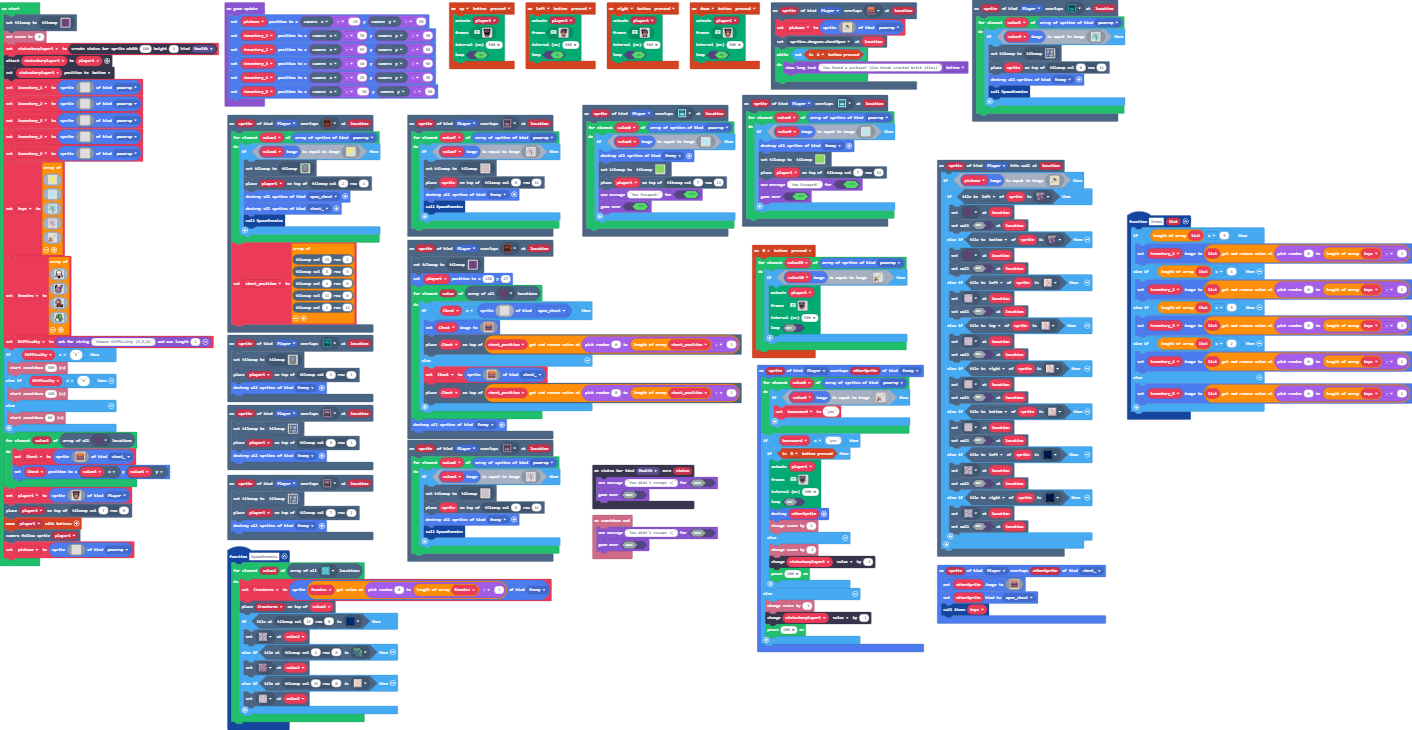
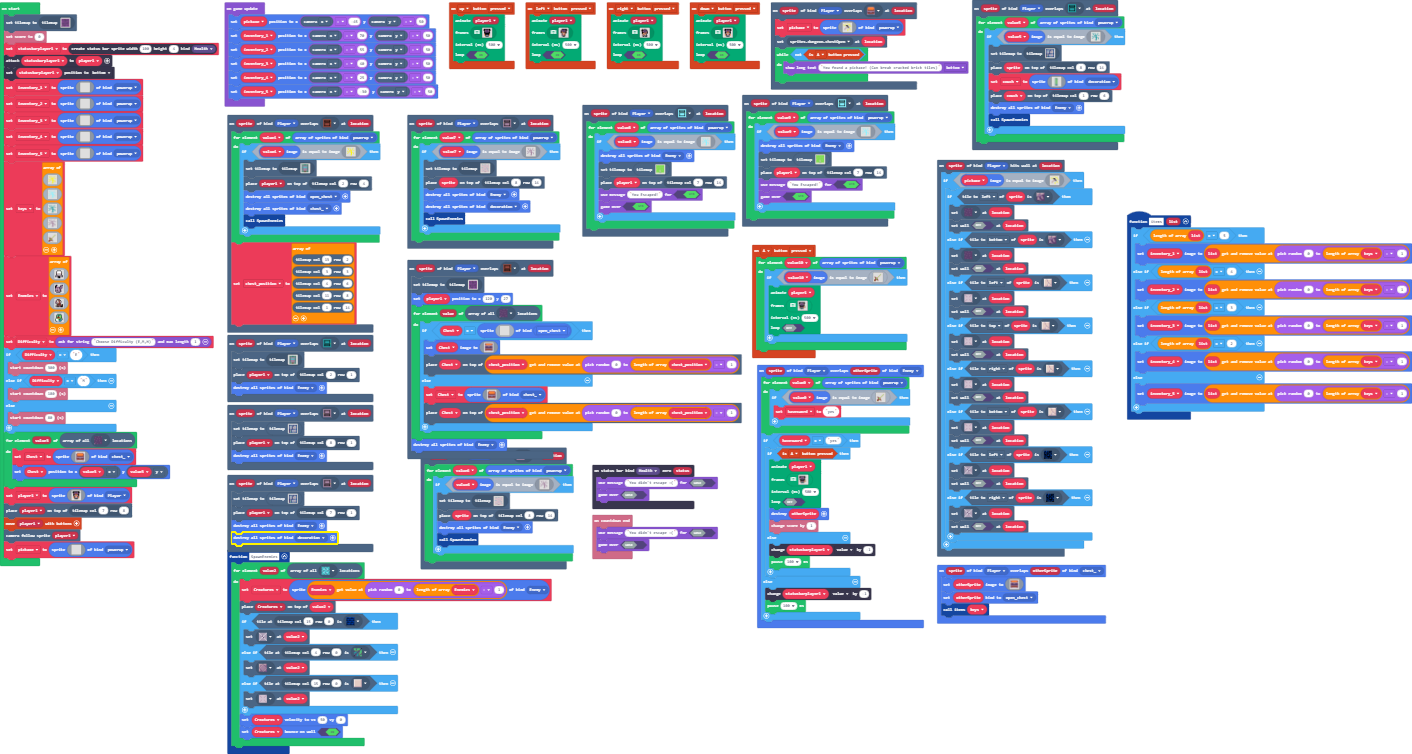
Update main.blocks, main.ts, tilemap.g.jres, tilemap.g.ts

diff --git a/main.ts b/main.ts
@@ -2,6 +2,7 @@ namespace SpriteKind {
     export const powerup = SpriteKind.create()
     export const chest_ = SpriteKind.create()
     export const open_chest = SpriteKind.create()
+    export const decoration = SpriteKind.create()
 }
 scene.onOverlapTile(SpriteKind.Player, assets.tile`myTile0`, function (sprite, location) {
     tiles.setCurrentTilemap(tilemap`level1`)
@@ -173,7 +174,62 @@ scene.onHitWall(SpriteKind.Player, function (sprite, location) {
         }
     }
 })
-controller.B.onEvent(ControllerButtonEvent.Pressed, function () {
+scene.onOverlapTile(SpriteKind.Player, assets.tile`myTile`, function (sprite, location) {
+    for (let value4 of sprites.allOfKind(SpriteKind.powerup)) {
+        if (value4.image.equals(img`
+            . . . . . 5 . . . . . . . . . . 
+            . 5 5 . . . 5 . . . . 5 5 . . . 
+            . . 5 5 . . 5 5 . . 5 5 . . . . 
+            . . . 5 . . . . . . . . . . . . 
+            . . . . . 5 5 5 5 5 . . . . . . 
+            . . . . . 5 . 5 . 5 . 5 5 5 5 . 
+            5 5 5 . . 5 5 . 5 5 . . . . . . 
+            . . . . . 5 . 5 . 5 . . . . . . 
+            . . . . . 5 5 5 5 5 . 5 . . . . 
+            . . 5 5 . . . . 5 5 . 5 5 . . . 
+            . 5 5 . . . . . 5 5 . . 5 5 . . 
+            . 5 . . . . . . 5 5 . . . 5 . . 
+            . . . . . . . 5 5 5 . . . 5 . . 
+            . . . . . . . . 5 5 . . . . . . 
+            . . . . . . . 5 5 5 . . . . . . 
+            . . . . . . . . . . . . . . . . 
+            `)) {
+            tiles.setCurrentTilemap(tilemap`level5`)
+            tiles.placeOnTile(player1, tiles.getTileLocation(2, 4))
+            sprites.destroyAllSpritesOfKind(SpriteKind.open_chest)
+            sprites.destroyAllSpritesOfKind(SpriteKind.chest_)
+            SpawnEnemies()
+        }
+    }
+    chest_position = [
+    tiles.getTileLocation(13, 2),
+    tiles.getTileLocation(3, 3),
+    tiles.getTileLocation(4, 6),
+    tiles.getTileLocation(11, 8),
+    tiles.getTileLocation(1, 14)
+    ]
+})
+function SpawnEnemies () {
+    for (let value2 of tiles.getTilesByType(sprites.dungeon.collectibleInsignia)) {
+        Creatures = sprites.create(Enemies[randint(0, Enemies.length - 1)], SpriteKind.Enemy)
+        tiles.placeOnTile(Creatures, value2)
+        if (tiles.tileAtLocationEquals(tiles.getTileLocation(15, 0), assets.tile`myTile4`)) {
+            tiles.setTileAt(value2, assets.tile`myTile3`)
+        } else if (tiles.tileAtLocationEquals(tiles.getTileLocation(4, 0), sprites.dungeon.greenOuterNorthEast)) {
+            tiles.setTileAt(value2, sprites.dungeon.floorDarkDiamond)
+        } else if (tiles.tileAtLocationEquals(tiles.getTileLocation(15, 0), sprites.dungeon.floorLight2)) {
+            tiles.setTileAt(value2, assets.tile`myTile1`)
+        }
+        Creatures.setVelocity(50, 0)
+        Creatures.setBounceOnWall(true)
+    }
+}
+scene.onOverlapTile(SpriteKind.Player, assets.tile`myTile15`, function (sprite, location) {
+    tiles.setCurrentTilemap(tilemap`level3`)
+    tiles.placeOnTile(player1, tiles.getTileLocation(8, 1))
+    sprites.destroyAllSpritesOfKind(SpriteKind.Enemy)
+})
+controller.A.onEvent(ControllerButtonEvent.Pressed, function () {
     for (let value10 of sprites.allOfKind(SpriteKind.powerup)) {
         if (value10.image.equals(img`
             . . . . . . . . . . . . . . . . 
@@ -269,59 +325,6 @@ controller.B.onEvent(ControllerButtonEvent.Pressed, function () {
             )
         }
     }
-})
-scene.onOverlapTile(SpriteKind.Player, assets.tile`myTile`, function (sprite, location) {
-    for (let value4 of sprites.allOfKind(SpriteKind.powerup)) {
-        if (value4.image.equals(img`
-            . . . . . 5 . . . . . . . . . . 
-            . 5 5 . . . 5 . . . . 5 5 . . . 
-            . . 5 5 . . 5 5 . . 5 5 . . . . 
-            . . . 5 . . . . . . . . . . . . 
-            . . . . . 5 5 5 5 5 . . . . . . 
-            . . . . . 5 . 5 . 5 . 5 5 5 5 . 
-            5 5 5 . . 5 5 . 5 5 . . . . . . 
-            . . . . . 5 . 5 . 5 . . . . . . 
-            . . . . . 5 5 5 5 5 . 5 . . . . 
-            . . 5 5 . . . . 5 5 . 5 5 . . . 
-            . 5 5 . . . . . 5 5 . . 5 5 . . 
-            . 5 . . . . . . 5 5 . . . 5 . . 
-            . . . . . . . 5 5 5 . . . 5 . . 
-            . . . . . . . . 5 5 . . . . . . 
-            . . . . . . . 5 5 5 . . . . . . 
-            . . . . . . . . . . . . . . . . 
-            `)) {
-            tiles.setCurrentTilemap(tilemap`level5`)
-            tiles.placeOnTile(player1, tiles.getTileLocation(2, 4))
-            sprites.destroyAllSpritesOfKind(SpriteKind.open_chest)
-            sprites.destroyAllSpritesOfKind(SpriteKind.chest_)
-            SpawnEnemies()
-        }
-    }
-    chest_position = [
-    tiles.getTileLocation(13, 2),
-    tiles.getTileLocation(3, 3),
-    tiles.getTileLocation(4, 6),
-    tiles.getTileLocation(11, 8),
-    tiles.getTileLocation(1, 14)
-    ]
-})
-function SpawnEnemies () {
-    for (let value2 of tiles.getTilesByType(sprites.dungeon.collectibleInsignia)) {
-        Creatures = sprites.create(Enemies[randint(0, Enemies.length - 1)], SpriteKind.Enemy)
-        tiles.placeOnTile(Creatures, value2)
-        if (tiles.tileAtLocationEquals(tiles.getTileLocation(15, 0), assets.tile`myTile4`)) {
-            tiles.setTileAt(value2, assets.tile`myTile3`)
-        } else if (tiles.tileAtLocationEquals(tiles.getTileLocation(4, 0), sprites.dungeon.greenOuterNorthEast)) {
-            tiles.setTileAt(value2, sprites.dungeon.floorDarkDiamond)
-        } else if (tiles.tileAtLocationEquals(tiles.getTileLocation(15, 0), sprites.dungeon.floorLight2)) {
-            tiles.setTileAt(value2, assets.tile`myTile1`)
-        }
-    }
-}
-scene.onOverlapTile(SpriteKind.Player, assets.tile`myTile15`, function (sprite, location) {
-    tiles.setCurrentTilemap(tilemap`level3`)
-    tiles.placeOnTile(player1, tiles.getTileLocation(8, 1))
-    sprites.destroyAllSpritesOfKind(SpriteKind.Enemy)
 })
 scene.onOverlapTile(SpriteKind.Player, assets.tile`myTile7`, function (sprite, location) {
     tiles.setCurrentTilemap(tilemap`level5`)
@@ -505,6 +508,7 @@ scene.onOverlapTile(SpriteKind.Player, assets.tile`myTile16`, function (sprite, 
             tiles.setCurrentTilemap(tilemap`level24`)
             tiles.placeOnTile(sprite, tiles.getTileLocation(8, 14))
             sprites.destroyAllSpritesOfKind(SpriteKind.Enemy)
+            sprites.destroyAllSpritesOfKind(SpriteKind.decoration)
             SpawnEnemies()
         }
     }
@@ -704,6 +708,57 @@ scene.onOverlapTile(SpriteKind.Player, assets.tile`myTile2`, function (sprite, l
             `)) {
             tiles.setCurrentTilemap(tilemap`level3`)
             tiles.placeOnTile(sprite, tiles.getTileLocation(8, 14))
+            couch = sprites.create(img`
+                ..cccc..........
+                .c7776c.........
+                c67776cccccccc..
+                c67776cccccccc..
+                c67776c6677777c.
+                c67776c77777766c
+                c67776c66666666c
+                c67776c66666666c
+                c67776ccccccc66c
+                c67776c777776ccc
+                c67776c7777776c.
+                c67776c7777776c.
+                c67776c7777776c.
+                c67776c7777776c.
+                c67776c7777776c.
+                c67776c7777776c.
+                c67776c7777776c.
+                c67776c7777776c.
+                c67776c7777776c.
+                c67776c7777776c.
+                c67776c7777776c.
+                c67776c7777776c.
+                c67776c7777776c.
+                c67776c7777776c.
+                c67776c7777776c.
+                c67776c7777776c.
+                c67776c7777776c.
+                c67776c7777776c.
+                c67776c7777776c.
+                c67776c7777776c.
+                c67776c7777776c.
+                c67776c7777776c.
+                c67776c7777776c.
+                c67776c7777776c.
+                c67776c7777776c.
+                c67776c7777776c.
+                c67766c7777766c.
+                c66666ccccccccc.
+                c66666ccccccccc.
+                c66666c6677777c.
+                c66666c77777766c
+                c66666c77777766c
+                c66666c66666666c
+                c66666c66666666c
+                c66666c66666666c
+                c66666c66666666c
+                .ccccccccccccccc
+                .cbbc......cbbc.
+                `, SpriteKind.decoration)
+            tiles.placeOnTile(couch, tiles.getTileLocation(1, 6))
             sprites.destroyAllSpritesOfKind(SpriteKind.Enemy)
             SpawnEnemies()
         }
@@ -713,6 +768,7 @@ scene.onOverlapTile(SpriteKind.Player, assets.tile`myTile14`, function (sprite, 
     tiles.setCurrentTilemap(tilemap`level3`)
     tiles.placeOnTile(player1, tiles.getTileLocation(7, 1))
     sprites.destroyAllSpritesOfKind(SpriteKind.Enemy)
+    sprites.destroyAllSpritesOfKind(SpriteKind.decoration)
 })
 sprites.onOverlap(SpriteKind.Player, SpriteKind.Enemy, function (sprite, otherSprite) {
     for (let value0 of sprites.allOfKind(SpriteKind.powerup)) {
@@ -738,7 +794,7 @@ sprites.onOverlap(SpriteKind.Player, SpriteKind.Enemy, function (sprite, otherSp
         }
     }
     if (havesword == "yes") {
-        if (controller.B.isPressed()) {
+        if (controller.A.isPressed()) {
             animation.runImageAnimation(
             player1,
             [img`
@@ -814,19 +870,18 @@ sprites.onOverlap(SpriteKind.Player, SpriteKind.Enemy, function (sprite, otherSp
             false
             )
             sprites.destroy(otherSprite)
-            info.changeScoreBy(2)
+            info.changeScoreBy(1)
         } else {
-            info.changeScoreBy(-1)
             statusbarplayer1.value += -1
             pause(100)
         }
     } else {
-        info.changeScoreBy(-1)
         statusbarplayer1.value += -1
         pause(100)
     }
 })
 let havesword = ""
+let couch: Sprite = null
 let Creatures: Sprite = null
 let chest_position: tiles.Location[] = []
 let pickaxe: Sprite = null

diff --git a/tilemap.g.ts b/tilemap.g.ts
@@ -48,6 +48,16 @@ namespace myTiles {
     export const tile22 = image.ofBuffer(hex``);
     //% fixedInstance jres blockIdentity=images._tile
     export const tile23 = image.ofBuffer(hex``);
+    //% fixedInstance jres blockIdentity=images._tile
+    export const tile25 = image.ofBuffer(hex``);
+    //% fixedInstance jres blockIdentity=images._tile
+    export const tile24 = image.ofBuffer(hex``);
+    //% fixedInstance jres blockIdentity=images._tile
+    export const tile26 = image.ofBuffer(hex``);
+    //% fixedInstance jres blockIdentity=images._tile
+    export const tile27 = image.ofBuffer(hex``);
+    //% fixedInstance jres blockIdentity=images._tile
+    export const tile28 = image.ofBuffer(hex``);
 
     helpers._registerFactory("tilemap", function(name: string) {
         switch(helpers.stringTrim(name)) {
@@ -849,6 +859,25 @@ namespace myTiles {
 . . . . . . . . . . . . . . . . 
 . . . . . . . . . . . . . . . . 
 `, [myTiles.transparency16], TileScale.Sixteen);
+            case "level24":
+            case "level24":return tiles.createTilemap(hex`1000100004040404040404070604040404040404040108080104010101010501010108040401010101040404040404010101010404010101010101010101050101010104040101010104010101010401010101040404050404040101010104010101010404010108010404040404040404040404040801010104010101010108010101040404040405040101010101010101010404010101010101010101040108010104040101010101010101010404040504040401010404040101010104010801010404010101080404040404040101010804040101010104010101010501010101040401010101040101010104010101010404040404040404020304040404040404`, img`
+2 2 2 2 2 2 2 . . 2 2 2 2 2 2 2 
+2 . . . . 2 . . . . 2 . . . . 2 
+2 . . . . 2 2 2 2 2 2 . . . . 2 
+2 . . . . . . . . . 2 . . . . 2 
+2 . . . . 2 . . . . 2 . . . . 2 
+2 2 2 2 2 2 . . . . 2 . . . . 2 
+2 . . . . 2 2 2 2 2 2 2 2 2 2 2 
+2 . . . . 2 . . . . . . . . . 2 
+2 2 2 2 2 2 . . . . . . . . . 2 
+2 . . . . . . . . . 2 . . . . 2 
+2 . . . . . . . . . 2 2 2 2 2 2 
+2 . . 2 2 2 . . . . 2 . . . . 2 
+2 . . . . 2 2 2 2 2 2 . . . . 2 
+2 . . . . 2 . . . . 2 . . . . 2 
+2 . . . . 2 . . . . 2 . . . . 2 
+2 2 2 2 2 2 2 . . 2 2 2 2 2 2 2 
+`, [myTiles.transparency16,myTiles.tile3,myTiles.tile16,myTiles.tile17,sprites.dungeon.floorLight2,sprites.dungeon.floorLight5,myTiles.tile19,myTiles.tile20,sprites.dungeon.collectibleInsignia], TileScale.Sixteen);
             case "level76":
             case "level76":return tiles.createTilemap(hex`1000100000000000000000000000000000000000000000000000000000000000000000000000000000000000000000000000000000000000000000000000000000000000000000000000000000000000000000000000000000000000000000000000000000000000000000000000000000000000000000000000000000000000000000000000000000000000000000000000000000000000000000000000000000000000000000000000000000000000000000000000000000000000000000000000000000000000000000000000000000000000000000000000000000000000000000000000000000000000000000000000000000000000000000000000000000000000`, img`
 . . . . . . . . . . . . . . . . 
@@ -2199,16 +2228,16 @@ namespace myTiles {
 . . . . . . . . . . . . . . . . 
 `, [myTiles.transparency16], TileScale.Sixteen);
             case "level5":
[2 lines of base64/hex data omitted]
 2 2 . 2 2 
 2 . . . 2 
 2 . . . 2 
 2 . . . 2 
 2 . . . 2 
 2 2 . 2 2 
-`, [myTiles.transparency16,myTiles.tile2,myTiles.tile4,sprites.dungeon.greenOuterEast0,sprites.dungeon.greenOuterWest1,sprites.dungeon.greenOuterEast1,sprites.dungeon.greenOuterWest0,sprites.dungeon.greenOuterSouthEast,sprites.dungeon.greenOuterSouthWest,sprites.dungeon.greenOuterNorthEast,sprites.dungeon.greenOuterSouth2,sprites.dungeon.greenOuterNorth2,sprites.dungeon.greenOuterNorthWest,sprites.dungeon.collectibleInsignia,sprites.dungeon.floorDarkDiamond], TileScale.Sixteen);
+`, [myTiles.transparency16,myTiles.tile2,myTiles.tile4,sprites.dungeon.greenOuterEast0,sprites.dungeon.greenOuterWest1,sprites.dungeon.greenOuterEast1,sprites.dungeon.greenOuterWest0,sprites.dungeon.greenOuterSouthEast,sprites.dungeon.greenOuterSouthWest,sprites.dungeon.greenOuterNorthEast,sprites.dungeon.greenOuterSouth2,sprites.dungeon.greenOuterNorth2,sprites.dungeon.greenOuterNorthWest,sprites.dungeon.collectibleInsignia,sprites.dungeon.floorDarkDiamond,myTiles.tile24,myTiles.tile25], TileScale.Sixteen);
             case "level3":
[2 lines of base64/hex data omitted]
 2 2 2 2 2 2 2 . . 2 2 2 2 2 2 2 
 2 . . . . . . . . 2 . . . . . 2 
 2 . . . . . . 2 2 2 . . . . . 2 
@@ -2225,26 +2254,7 @@ namespace myTiles {
 2 . . . 2 . . . . . . . . . . 2 
 2 . . . 2 . . . . . . . . . . 2 
 2 2 2 2 2 2 2 2 . 2 2 2 2 2 2 2 
-`, [myTiles.transparency16,myTiles.tile5,myTiles.tile6,myTiles.tile9,myTiles.tile10,sprites.dungeon.floorLight2,myTiles.tile12,myTiles.tile13,myTiles.tile14,myTiles.tile15,sprites.builtin.forestTiles0,myTiles.tile18,myTiles.tile11,sprites.dungeon.collectibleInsignia], TileScale.Sixteen);
-            case "level24":
-            case "level24":return tiles.createTilemap(hex`1000100004040404040404070604040404040404040101010104010101010501010801040401010801040404040404010101010404010101010101010101040801080104040801010104010108010401010101040404040405040801010105010108010404010801010404040404040404040404040101010104040404040404040404040405040404040101010101010801010404010108010101010801040101010104040801010108010101010404040405040401010404040404040404010101080404010101010404040404040108010104040801010104010101010501010101040401010108040101010104010801080404040404040404020304040404040404`, img`
-2 2 2 2 2 2 2 . . 2 2 2 2 2 2 2 
-2 . . . . 2 . . . . 2 . . . . 2 
-2 . . . . 2 2 2 2 2 2 . . . . 2 
-2 . . . . . . . . . 2 . . . . 2 
-2 . . . . 2 . . . . 2 . . . . 2 
-2 2 2 2 2 2 . . . . 2 . . . . 2 
-2 . . . . 2 2 2 2 2 2 2 2 2 2 2 
-2 . . . . 2 2 2 2 2 2 2 2 2 2 2 
-2 2 2 2 2 2 . . . . . . . . . 2 
-2 . . . . . . . . . 2 . . . . 2 
-2 . . . . . . . . . 2 2 2 2 2 2 
-2 . . 2 2 2 2 2 2 2 2 . . . . 2 
-2 . . . . 2 2 2 2 2 2 . . . . 2 
-2 . . . . 2 . . . . 2 . . . . 2 
-2 . . . . 2 . . . . 2 . . . . 2 
-2 2 2 2 2 2 2 . . 2 2 2 2 2 2 2 
-`, [myTiles.transparency16,myTiles.tile3,myTiles.tile16,myTiles.tile17,sprites.dungeon.floorLight2,sprites.dungeon.floorLight5,myTiles.tile19,myTiles.tile20,sprites.dungeon.collectibleInsignia], TileScale.Sixteen);
+`, [myTiles.transparency16,myTiles.tile5,myTiles.tile6,myTiles.tile9,myTiles.tile10,sprites.dungeon.floorLight2,myTiles.tile12,myTiles.tile13,myTiles.tile14,myTiles.tile15,sprites.builtin.forestTiles0,myTiles.tile18,myTiles.tile11,sprites.dungeon.collectibleInsignia,myTiles.tile24,myTiles.tile25,myTiles.tile26,myTiles.tile27,myTiles.tile28], TileScale.Sixteen);
         }
         return null;
     })
@@ -2297,6 +2307,16 @@ namespace myTiles {
             case "tile22":return tile22;
             case "myTile20":
             case "tile23":return tile23;
+            case "myTile22":
+            case "tile25":return tile25;
+            case "myTile21":
+            case "tile24":return tile24;
+            case "myTile23":
+            case "tile26":return tile26;
+            case "myTile24":
+            case "tile27":return tile27;
+            case "myTile25":
+            case "tile28":return tile28;
         }
         return null;
     })
